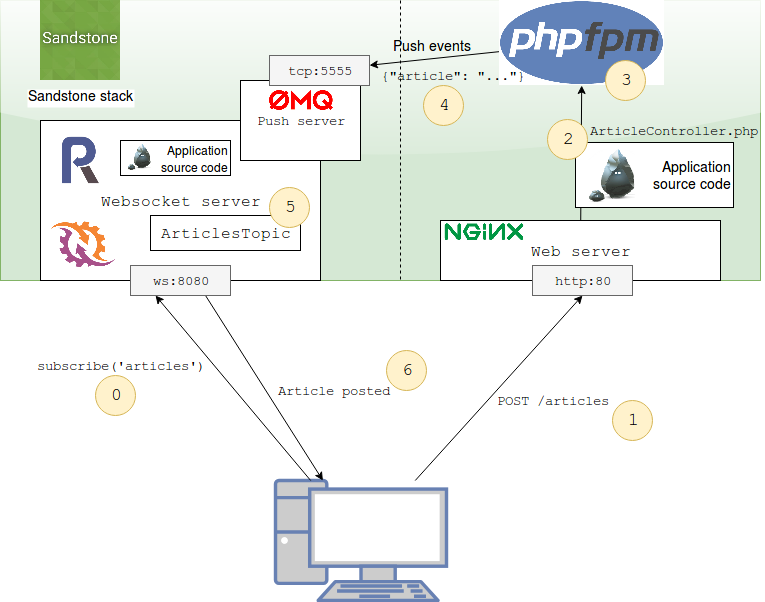
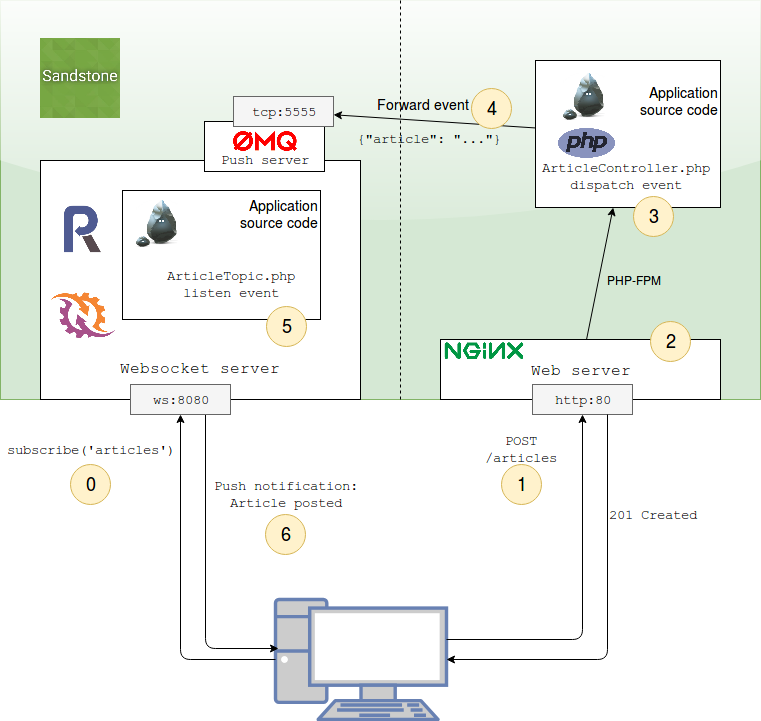
Update doc: typos, big picture, add last tweet in footer

Changed region(s): [[0.0, 0.0, 1.0, 1.0], [0.6347, 0.598, 0.9067, 0.7475], [0.5742, 0.7176, 0.6045, 0.7475]]

diff --git a/doc/_includes/footer.html b/doc/_includes/footer.html
@@ -1,21 +1,52 @@
 <footer>
-    <div class="container-fluid">
-        <div class="text-center">
-            <p>Sandstone is under <a href="https://github.com/eole-io/sandstone/blob/master/LICENSE">MIT license</a>.</p>
-            <br />
-            <p>
-                Find me here:
+    <div class="container">
+        <div class="row">
+            <div class="col-md-4 col-md-offset-4 text-center">
+                <p>Sandstone is under <a href="https://github.com/eole-io/sandstone/blob/master/LICENSE">MIT license</a>.</p>
                 <br />
-                <a href="https://github.com/alcalyn">
-                    <i class="fa fa-github fa-lg" aria-hidden="true"></i>
-                    alcalyn
-                </a>
-                -
-                <a href="https://twitter.com/alcalyn_">
-                    <i class="fa fa-twitter fa-lg" aria-hidden="true"></i>
-                    alcalyn_
-                </a>
-            </p>
+
+                <ul class="list-unstyled">
+                    <li>
+                        <i class="fa fa-github fa-lg" aria-hidden="true"></i>
+                        <a href="https://github.com/eole-io/sandstone">Sandstone</a>
+                    </li>
+                    <li>
+                        <i class="fa fa-github fa-lg" aria-hidden="true"></i>
+                        <a href="https://github.com/eole-io/sandstone-edition">Sandstone edition</a>
+                    </li>
+                </ul>
+                <br />
+
+                <p>
+                    Follow updates and news:
+                    <br />
+                    <a
+                        href="https://twitter.com/sandstone_php"
+                        class="twitter-follow-button"
+                        data-size="large"
+                        data-show-count="false"
+                    >Follow @sandstone_php</a>
+                    <script async src="//platform.twitter.com/widgets.js" charset="utf-8"></script>
+                </p>
+                <br />
+
+                <p>
+                    Find me here:
+                    <br />
+                    <a href="https://github.com/alcalyn">
+                        <i class="fa fa-github fa-lg" aria-hidden="true"></i>
+                        alcalyn
+                    </a>
+                    -
+                    <a href="https://twitter.com/alcalyn_">
+                        <i class="fa fa-twitter fa-lg" aria-hidden="true"></i>
+                        alcalyn_
+                    </a>
+                </p>
+            </div>
+            <div class="col-md-4 text-center">
+                {% twitter https://twitter.com/sandstone_php maxwidth=400 limit=2 %}
+            </div>
         </div>
     </div>
 </footer>

diff --git a/doc/big-picture.md b/doc/big-picture.md
@@ -6,10 +6,10 @@ title: Big picture
 <h1 class="no-margin-top">Big picture</h1>
 
 Sandstone runs a RestApi server and a Websocket server.
+Two stacks, running on differents processus.
 
-This is two stacks, running on a different processus.
-The big picture show all stacks components, and list all steps
-in a standard use case, a RestApi request that triggers a Push event.
+This big picture show all Sandstone components, and list all steps
+in a standard use case, a RestApi request which triggers a Push event.
 
 <img
     src="img/sandstone-big-picture.png"
@@ -19,7 +19,7 @@ in a standard use case, a RestApi request that triggers a Push event.
 
 ### Step 0
 
-Javascript client open a connection to websocket server.
+Javascript client opens a connection to websocket server.
 It then subscribes to `articles` topic in order to receive
 all new published articles as soon as someone posted one.
 
@@ -28,35 +28,39 @@ all new published articles as soon as someone posted one.
 
 ### Step 1
 
-A web client creates a new article. He then POST it to RestApi server.
+A web client creates a new article. He then POST it to the RestApi server.
 
 ### Step 2
 
-Nginx handle the HTTP request, and aks for php-fpm to execute PHP application
+Nginx handle the HTTP request, and asks for php-fpm to execute PHP application.
 to return processed result.
 
 ### Step 3
 
 PHP runs the application. In Sandstone, it means:
- - solve the route,
- - execute the ArticleController
- - persist the article in database
- - dispatch an `ARTICLE_CREATED` event through the Event Dispatcher
+
+ - solve the `POST /articles` route,
+ - execute the `ArticleController`,
+ - persist the article in database,
+ - dispatch an `ARTICLE_CREATED` event through the Event Dispatcher.
 
 ### Step 4
 
-If the `ARTICLE_CREATED` evnt has been marked as *forward* with
-`$app->forwardEventToPushServer('article.created');`,
-Sandstone will automagically forward it to the websocket server process.
+If the `ARTICLE_CREATED` event has been marked as *forward* with
+`$app->forwardEventToPushServer('ARTICLE_CREATED');`,
+Sandstone will *automagically* forward it to the websocket server process.
 
-The magic trick here is to use a ZMQ socket. Then Sandstone serialize the event,
+The magic trick here is to use a ZMQ socket. Sandstone serialize the event,
 send it through the ZMQ socket. The websocket process then deserialize it,
 and dispatch it in his Event dispatcher.
 
+By this way, dispatching an event in the RestApi stack
+can be listened in the websocket stack.
+
 ### Step 5
 
-Your `ArticlesTopic`, which is listening to the `ARTICLE_CREATED`,
-calls the listener. This listener will JSON serialize and `broadcast` the event
+Your `ArticleTopic`, which is listening to the `ARTICLE_CREATED` event,
+calls the listener. This listener will JSON serialize the article, and `broadcast` the event
 to the `articles` websocket topic.
 
 > See `ChatTopic` class to see how to listen to event:
@@ -64,5 +68,9 @@ to the `articles` websocket topic.
 
 ### Step 6
 
-The Javascript client, which subscribed to `articles` topic,
+The Javascript client, which earlier (step 0) subscribed to the `articles` websocket topic,
 receives the JSON serialized event.
+
+It can use this event to real-time display a notification
+that a new article has been posted,
+or dynamically add it to the DOM.

diff --git a/doc/index.md b/doc/index.md
@@ -10,9 +10,9 @@ this library can help you to use websockets in a structured application.
 
 What you can achieve with Sandstone:
 
-- Create a Rest Api using Silex (Sandstone extends Silex)
+- Create a Rest Api
 - Create a websocket topic the same way as creating an api endpoint
-- Dispatch event from Rest Api to Websocket server using Symfony event dispatcher
+- Dispatch event from Rest Api to Websocket server
 
 
 ## Installation
@@ -33,6 +33,8 @@ Installation using composer:
 
 ### Create a websocket topic
 
+Declare a websocket topic just as easy as declaring a silex route:
+
 ``` php
 $app = new Eole\Sandstone\Application();
 
@@ -43,8 +45,14 @@ $app->topic('chat/{channel}', function ($topicPattern, $arguments) {
 });
 ```
 
+> See more in the
+> [Multichannel chat server example]({{ site.baseurl }}/examples/multichannel-chat.html).
 
-### Dispatch an event from rest api to a websocket server topic
+
+### Send push notifications from RestApi
+
+To send push notifications to web clients
+when someone update a resource through the RestApi.
 
 In rest api stack:
 
@@ -93,16 +101,40 @@ class MyWebsocketTopic extends Eole\Sandstone\Websocket\Topic implements EventSu
 }
 ```
 
+> See more in the
+> [Full example]({{ site.baseurl }}/examples/full.html).
 
-### Full working examples
+
+## Sandstone edition
+
+If you want to start a new project or a real-time RestApi,
+you may consider using [Sandstone edition](https://github.com/eole-io/sandstone-edition).
+
+This edition is a starter project with:
+
+ - [Sandstone](https://eole-io.github.io/sandstone/) (Silex with websockets)
+ - **Docker** environment to mount the whole application (RestApi, websocket server, MariaDB, PHPMyAdmin)
+ - **Doctrine ORM** and Doctrine commands
+ - **Symfony web profiler** for debugging RestApi requests and Push events
+ - [Silex annotations](https://github.com/danadesrosiers/silex-annotation-provider) for controllers and routing annotations
+
+It's for people who will need a real-time RestApi with a database and an ORM, debug tools,
+and don't want to install all these tools and initiate the project structure (controllers, entities...).
+
+It also has a Docker environment, so that you can install and run the app easily.
+
+Check it out: <i class="fa fa-github fa-lg" aria-hidden="true"></i> [Sandstone edition](https://github.com/eole-io/sandstone-edition)
+
+
+## Full working examples
 
 See what you can do with examples:
 
-- [Full example of a rest api working with a websocket server]({{ site.baseurl }}/examples/full.html)
-- [Multichannel chat server]({{ site.baseurl }}/examples/multichannel-chat.html)
+- <i class="fa fa-code" aria-hidden="true"></i> [Full example of a rest api working with a websocket server]({{ site.baseurl }}/examples/full.html)
+- <i class="fa fa-code" aria-hidden="true"></i> [Multichannel chat server]({{ site.baseurl }}/examples/multichannel-chat.html)
 
 
-#### Docker
+### Docker
 
 A full example of a Sandstone application also exists as a Docker image.
 
